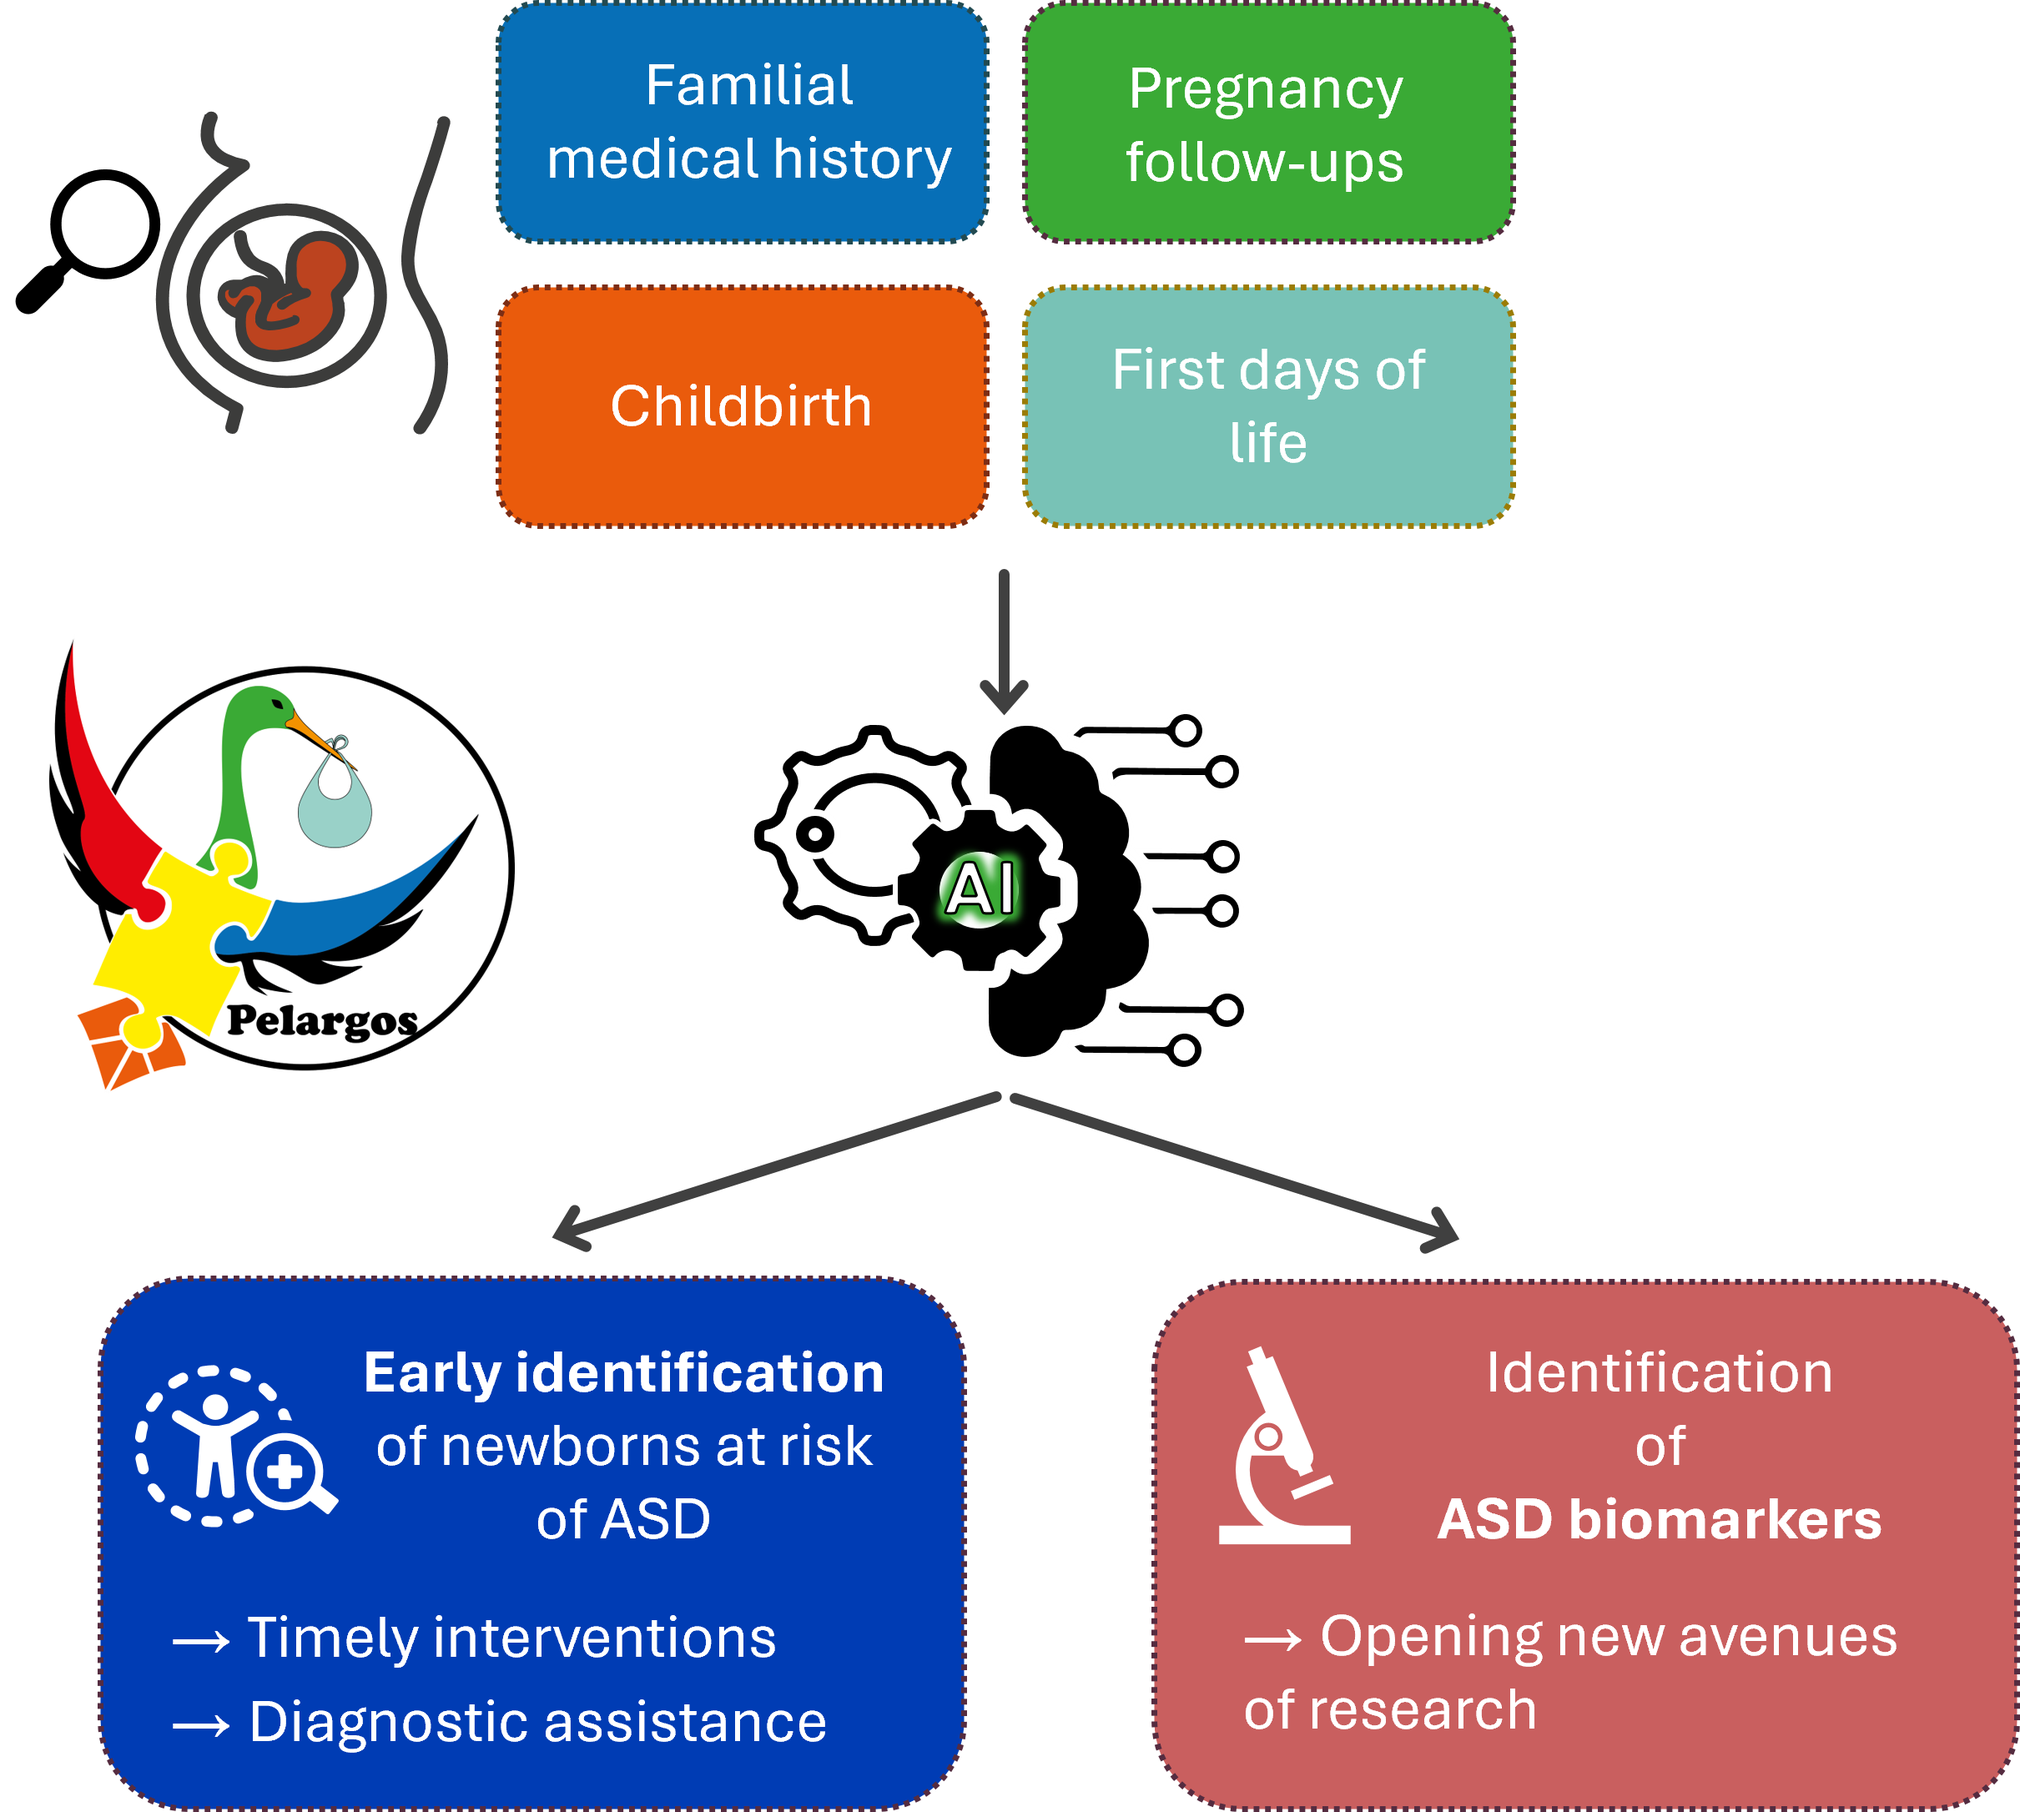
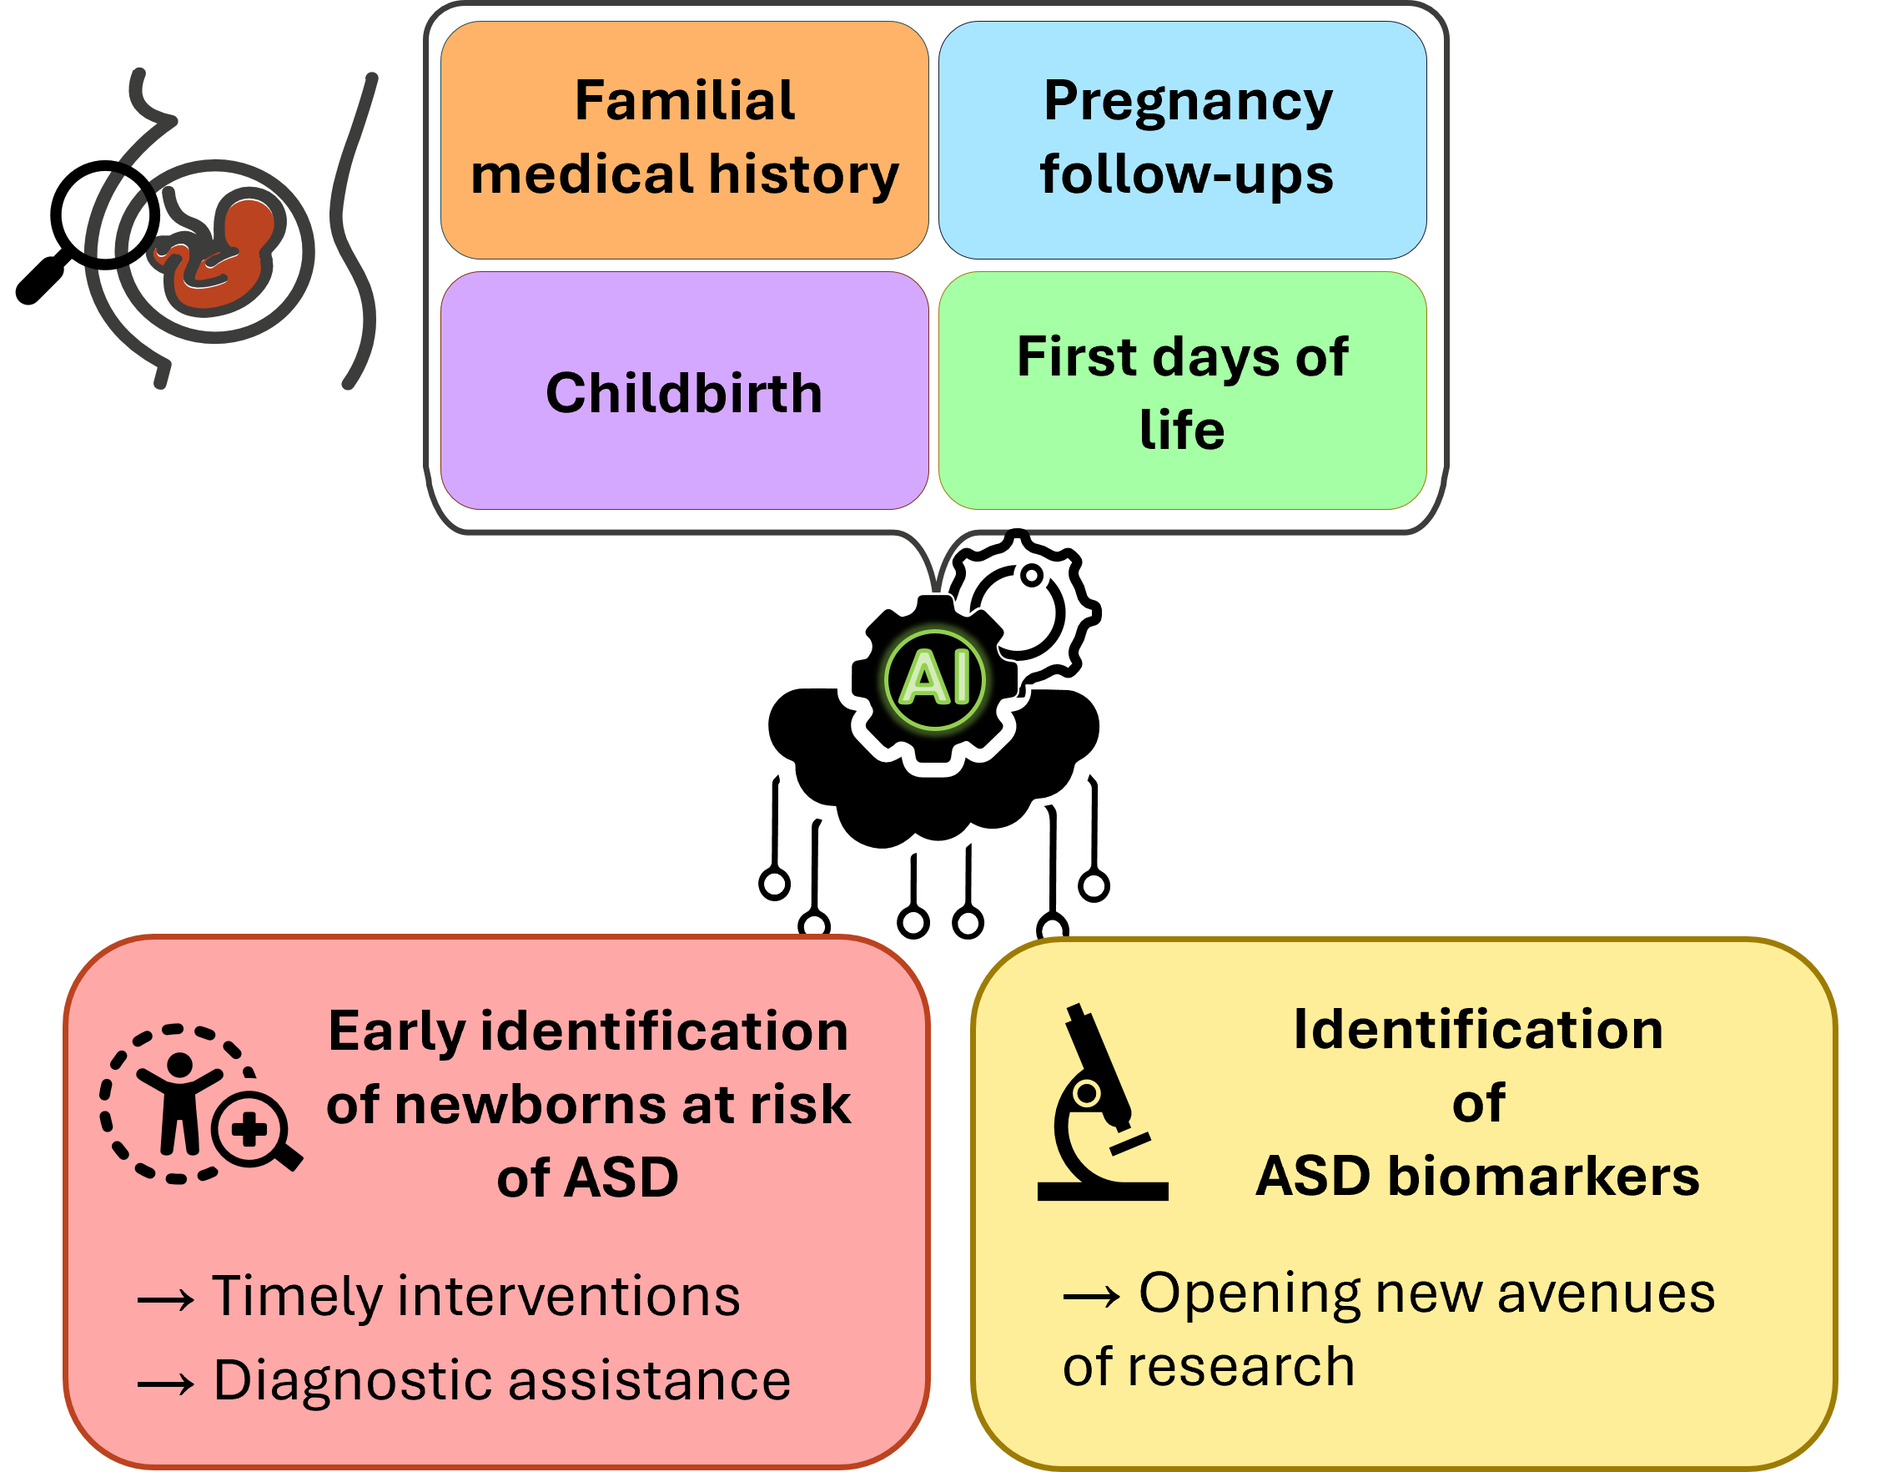
Modify image of Pelargos Overview.

diff --git a/content/project/pelargos/index.md b/content/project/pelargos/index.md
@@ -131,7 +131,7 @@ publication:
         <div class="title">Overview</div>
         <div class="description">
             Pelargos project, powered by artificial intelligence, has two key goals: developing a cutting-edge medical device for the early prognosis of Autism Spectrum Disorders (ASD) in newborns and identifying new ASD biomarkers. By leveraging data routinely collected during pregnancy follow-ups, childbirth, and the first days of life, the device aims to enable timely interventions, improving outcomes for children at risk. Simultaneously, the identification of biomarkers will open new research pathways, shedding light on the unknown underlying mechanisms and early indicators of ASD, fostering innovation in both clinical and scientific fields.
-            {{< figure src="pelargos-what-newColors.png" alt="Figure: What is the Pelargos project?" >}}
+            {{< figure src="pelargos-what.png" alt="Figure: What is the Pelargos project?" >}}
         </div>
     </div>
 </div>
